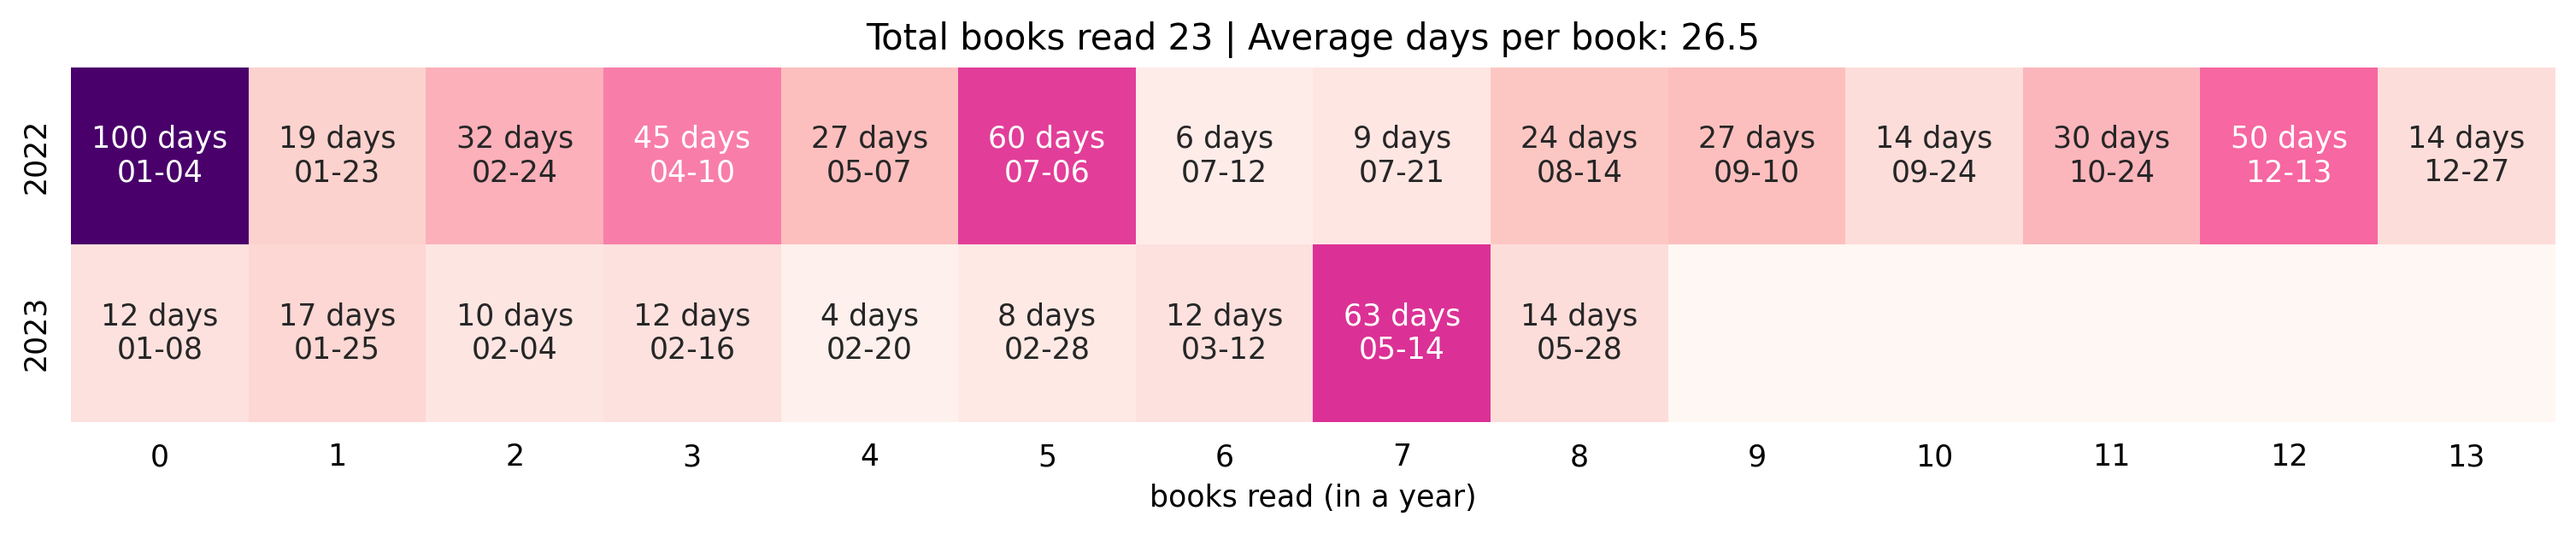
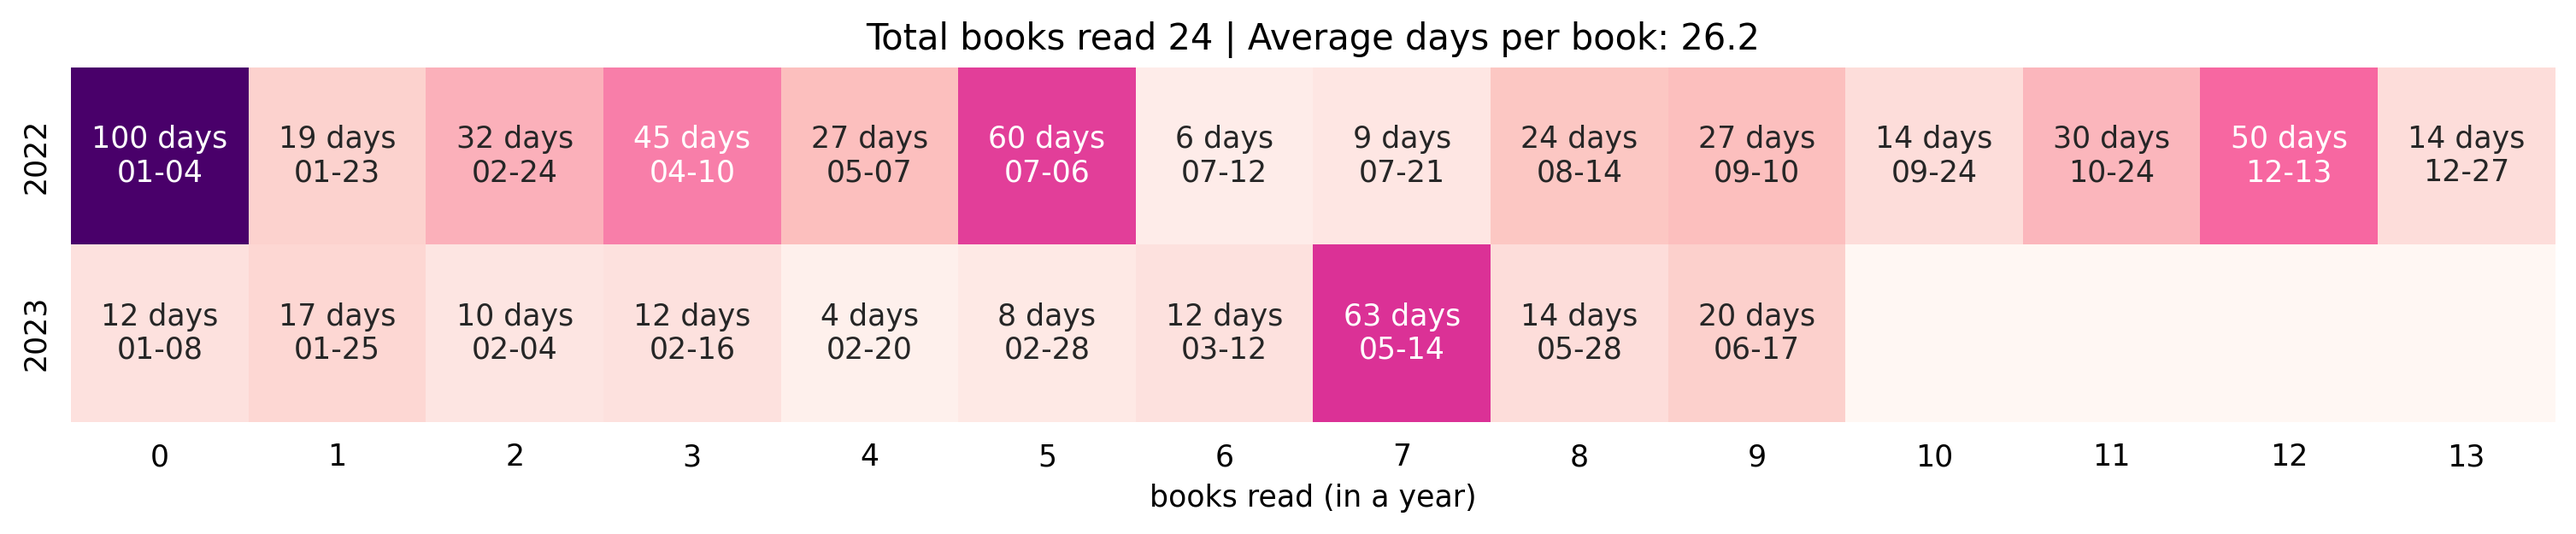
update day

Changed region(s): [[0.6238, 0.456, 0.7173, 0.7904], [0.6549, 0.0608, 0.6861, 0.0912], [0.4678, 0.0608, 0.499, 0.0912]]

diff --git a/src/markdown/blog/book-club.md b/src/markdown/blog/book-club.md
@@ -12,7 +12,19 @@ This blog post serves as a log for the book club I'm in.
 
 ### Log 
 
-## 20xx.xx.xx | Stories of the sahara
+## 2023.07.xx | Unbearable lightness of being
+
+Rating: np.average(\[3, 3, 5, 5\]) = 4.
+
+*   Unbearable lightness of being \[6p\]
+*   Nana \[3p\]
+*   The elementary particles \[3p\]
+*   The underwater welder \[3p\]
+*   Slædedagbok for turen til Sydpolen \[0p\]
+
+## 2023.06.04 | Stories of the sahara
+
+Rating: np.average(\[3, 3, 5, 5\]) = 4.
 
 *   Stories of the sahara \[6p\]
 *   Maskiner som tenker \[4p\]

diff --git a/src/markdown/blog/language-learning.md b/src/markdown/blog/language-learning.md
@@ -65,6 +65,7 @@ The following list shows all the read books and their date of completion.
 21.  [響け！ユーフォニアム １２](https://www.goodreads.com/book/show/51766913) (2023.03.12)
 22.  [響け！ユーフォニアム １３](https://www.goodreads.com/book/show/57520928) (2023.05.14)
 23.  [響け！ユーフォニアム ５](https://www.goodreads.com/book/show/35845316) (2023.05.28)
+24.  [響け！ユーフォニアム ６](https://www.goodreads.com/book/show/53592019) (2023.06.17)
 
 ## Main tools:
 
